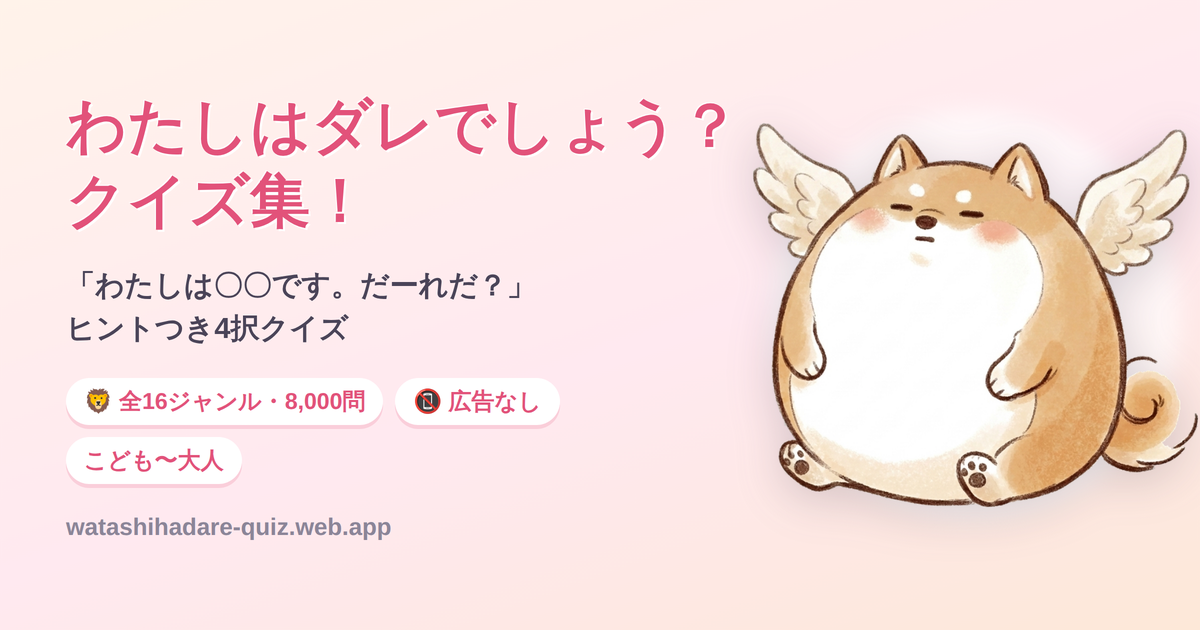
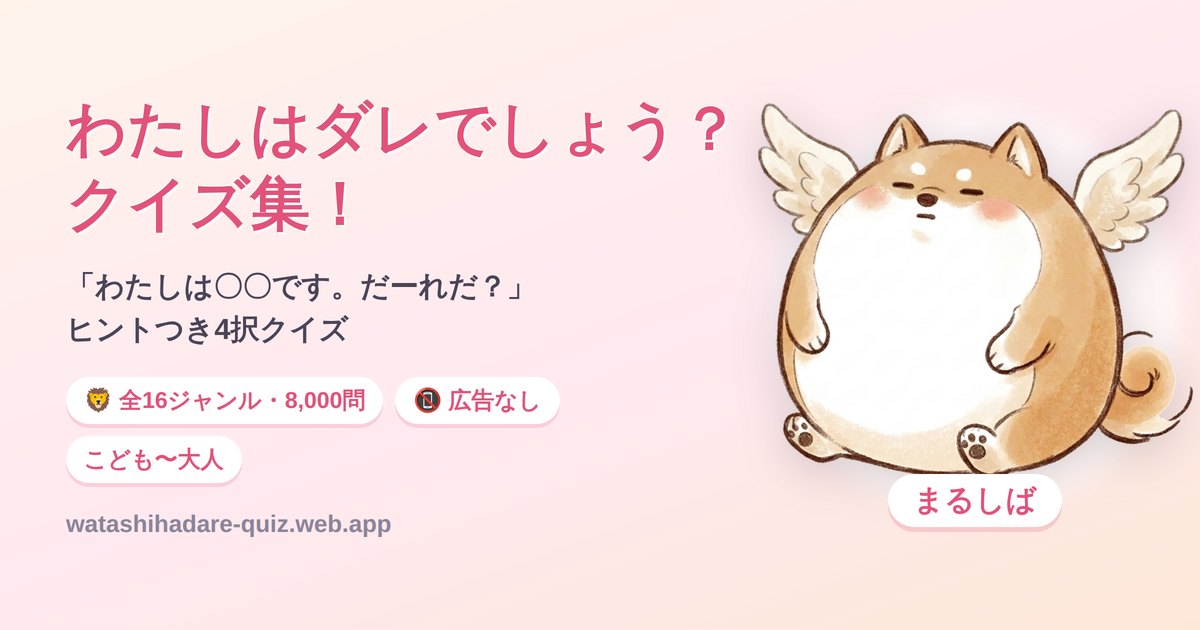
公式キャラクターの名前「まるしば」を各所に反映
なつみ命名。翼のはえたぷっくり柴犬=「まるしば」。

- トップページ: マスコットの下に名前タグ「まるしば」を追加。
- ジャンル一覧: 同様に名前タグを追加。
- OGP画像: キャラの下に「まるしば」の名前タグを入れて再生成。
- llms.txt: 公式キャラクター名を明記(AI検索・ブランディング用)。
- alt文言を「公式キャラクター「まるしば」」に更新。

検証: Playwright実機でトップページ・OGPに名前タグが表示されることを確認。
npm run build 成功。

Claude-Session: https://claude.ai/code/session_012wH8cy4jCsDm54ay42e8Zw

diff --git a/frontend/src/components/TopPage/TopPage.tsx b/frontend/src/components/TopPage/TopPage.tsx
@@ -304,12 +304,15 @@ const TopPage: React.FC<TopPageProps> = ({ onStart, showDifficultySelection, set
       />
 
       {!showDifficultySelection && (
-        <img
-          className="top-mascot"
-          src="/character.png"
-          alt="わたしはダレでしょう？クイズ集！公式キャラクター"
-          style={mascotStyle}
-        />
+        <div style={mascotWrapStyle}>
+          <img
+            className="top-mascot"
+            src="/character.png"
+            alt="公式キャラクター「まるしば」"
+            style={mascotStyle}
+          />
+          <span style={mascotNameStyle}>まるしば</span>
+        </div>
       )}
 
       {!showDifficultySelection && (
@@ -639,7 +642,9 @@ const containerStyle: React.CSSProperties = {
   position: 'relative',
   zIndex: 1,
 };
-const mascotStyle: React.CSSProperties = { width: '128px', height: 'auto', display: 'block', margin: '2px auto 8px', filter: 'drop-shadow(0 7px 14px rgba(74,68,88,0.18))', transformOrigin: 'center bottom' };
+const mascotWrapStyle: React.CSSProperties = { display: 'flex', flexDirection: 'column', alignItems: 'center', gap: '2px', margin: '2px auto 10px' };
+const mascotStyle: React.CSSProperties = { width: '128px', height: 'auto', display: 'block', filter: 'drop-shadow(0 7px 14px rgba(74,68,88,0.18))', transformOrigin: 'center bottom' };
+const mascotNameStyle: React.CSSProperties = { display: 'inline-block', background: '#fff', color: colors.primaryDark, fontFamily: fonts.heading, fontWeight: 'bold', fontSize: '0.85em', padding: '3px 16px', borderRadius: '50px', boxShadow: '0 3px 0 rgba(226,82,122,0.18)' };
 const totalCountLabelStyle: React.CSSProperties = { display: 'flex', alignItems: 'baseline', gap: '5px', justifyContent: 'center', color: colors.primaryDark, fontFamily: fonts.heading, fontWeight: 'bold', fontSize: '1.35em', marginBottom: '16px', textShadow: '1px 1px 0 #fff' };
 const totalCountNumberStyle: React.CSSProperties = { fontFamily: fonts.body, fontWeight: 800, fontSize: '1.7em', color: colors.primary, margin: '0 2px' };
 const hashtagContainerStyle: React.CSSProperties = { display: 'flex', flexWrap: 'wrap', justifyContent: 'center', gap: '10px', marginBottom: '20px', maxWidth: '700px', width: '100%' };

diff --git a/frontend/public/genres/index.html b/frontend/public/genres/index.html
@@ -82,9 +82,10 @@
     全16ジャンル・各レベル1〜10・合計8,000問。子どもの知育クイズゲームから、大人・高齢者の脳トレ、
     暇つぶしまで、ジャンルを選んでヒント付き4択クイズに挑戦しよう。
   </p>
-  <p style="text-align:center;margin:0 0 22px;">
-    <img src="/character.png" alt="わたしはダレでしょう？クイズ集！公式キャラクター" width="130" height="112" style="width:130px;height:auto;" loading="lazy" />
-  </p>
+  <div style="text-align:center;margin:0 0 22px;">
+    <img src="/character.png" alt="公式キャラクター「まるしば」" width="130" height="112" style="width:130px;height:auto;display:block;margin:0 auto 6px;" loading="lazy" />
+    <span style="display:inline-block;background:#fff;color:#E2527A;font-weight:bold;font-size:0.85em;padding:3px 16px;border-radius:50px;box-shadow:0 3px 0 rgba(226,82,122,0.18);">まるしば</span>
+  </div>
   <div class="grid">
     <a class="card" href="/genres/mammals.html"><h2>🦁 哺乳類クイズ</h2><p>イヌ・ネコから珍獣まで、動物の生態を学べるクイズゲーム</p></a>
     <a class="card" href="/genres/insects.html"><h2>🐝 昆虫クイズ</h2><p>身近な虫からめずらしい虫まで学べる昆虫クイズ</p></a>